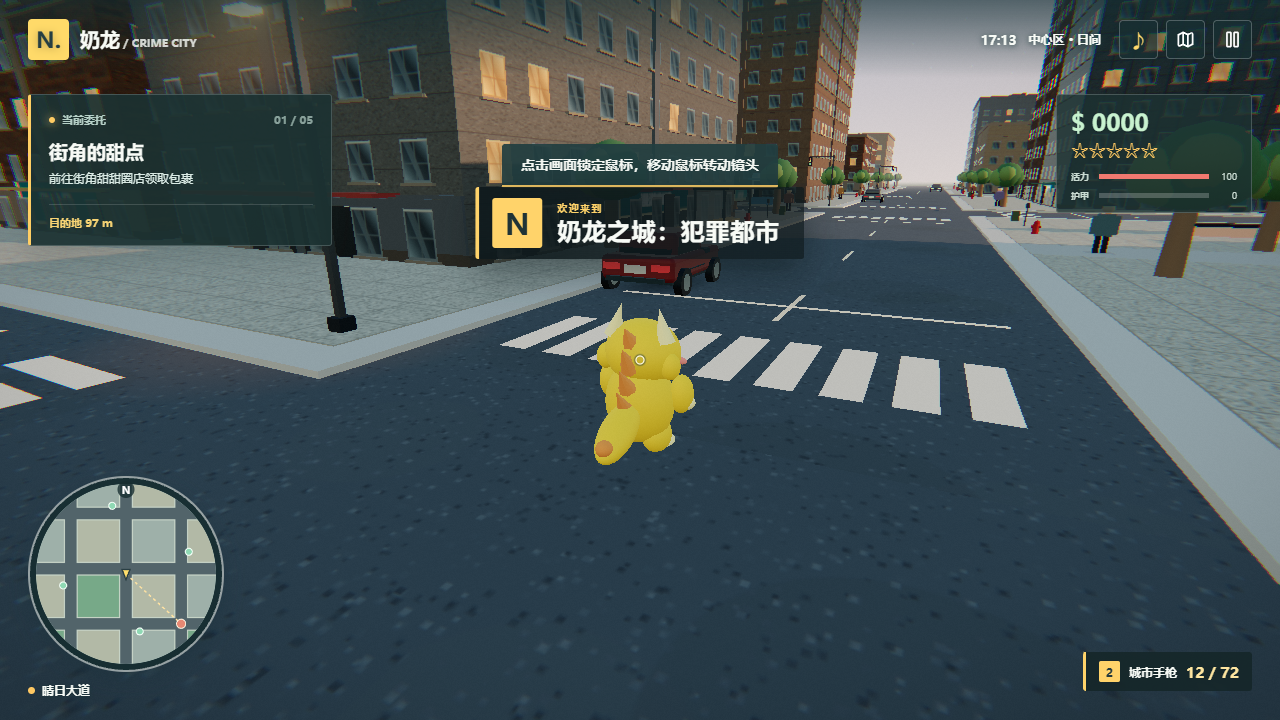
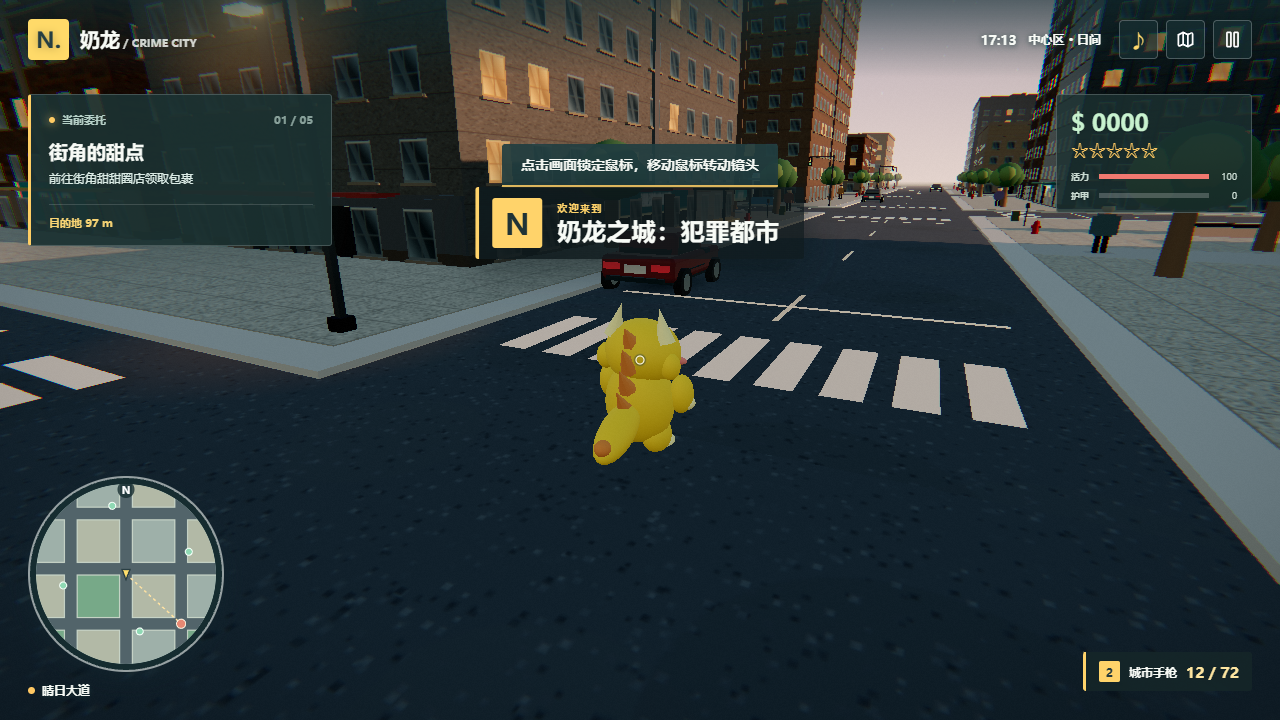
feat: deepen cinematic tone and golden hour
- Lower exposure, tighter contrast, deeper blacks, stronger vignette
- Reduce ambient/environment fill so sun shadows read on facades
- Denser aerial perspective; haze band and saturated sunset horizon
- Wider golden-hour window, warmer sunset fog and cloud tint

diff --git a/src/daynight.js b/src/daynight.js
@@ -26,30 +26,30 @@ export function createDayNight({ scene, sun, hemisphere, fog, atmosphere, lamps,
     const angle = (hours - 6) / 24 * Math.PI * 2;
     const height = Math.sin(angle);
     const day = THREE.MathUtils.clamp((height + 0.26) / 0.56, 0, 1);
-    const sunset = Math.max(0, 1 - Math.abs(height) * 2.8) * (1 - Math.max(0, -height) * 1.2);
+    const sunset = Math.max(0, 1 - Math.abs(height) * 2.2) * (1 - Math.max(0, -height) * 1.2);
     const night = 1 - day;
 
     sun.position.set(playerPosition.x + Math.cos(angle) * 140,
       Math.max(18 + night * 70, height * 150), playerPosition.z + Math.sin(angle) * 100);
     sun.target.position.set(playerPosition.x, 0, playerPosition.z);
     sun.target.updateMatrixWorld();
-    sun.intensity = 1.6 + day * 1.8;
+    sun.intensity = 1.35 + day * 2.75;
     sunColor.copy(COLORS.nightSun).lerp(COLORS.daySun, day);
     if (sunset > 0.05) sunColor.lerp(COLORS.sunsetSun, Math.min(1, sunset * 0.9));
     sun.color.copy(sunColor);
 
-    hemisphere.intensity = 3.4 - day * 2.38;
+    hemisphere.intensity = 2.8 - day * 2.15;
     hemisphere.color.copy(COLORS.nightHorizon).lerp(COLORS.dayHorizon, day);
     hemisphere.groundColor.setRGB(0.05 + day * 0.24, 0.055 + day * 0.23,
       0.06 + day * 0.19);
 
     mixColor.copy(COLORS.nightFog).lerp(COLORS.dayFog, day);
-    if (sunset > 0.04) mixColor.lerp(COLORS.sunsetFog, Math.min(1, sunset * 0.55));
+    if (sunset > 0.04) mixColor.lerp(COLORS.sunsetFog, Math.min(1, sunset * 0.8));
     fog.color.copy(mixColor);
     scene.background.copy(mixColor);
-    fog.near = 120 - night * 40;
-    fog.far = 620 - night * 230;
-    scene.environmentIntensity = 0.2 + day * 0.36;
+    fog.near = 130 - night * 30;
+    fog.far = 560 - night * 200;
+    scene.environmentIntensity = 0.14 + day * 0.26;
 
     const lampGlow = night * 3.0;
     for (const lamp of lamps) lamp.material.emissiveIntensity = 0.08 + lampGlow;

diff --git a/src/atmosphere.js b/src/atmosphere.js
@@ -26,14 +26,14 @@ export function createAtmosphere(scene) {
         void main() {
           vec3 direction = normalize(vDirection);
           float altitude = pow(clamp((direction.y + 0.08) / 0.7, 0.0, 1.0), 0.75);
-          vec3 horizon = mix(vec3(0.028, 0.045, 0.075), vec3(0.50, 0.62, 0.70), uDay);
-          horizon = mix(horizon, vec3(0.95, 0.44, 0.22), uSunset * 0.7);
-          vec3 zenith = mix(vec3(0.008, 0.014, 0.035), vec3(0.07, 0.24, 0.48), uDay);
+          vec3 horizon = mix(vec3(0.028, 0.045, 0.075), vec3(0.44, 0.56, 0.64), uDay);
+          horizon = mix(horizon, vec3(0.95, 0.44, 0.22), uSunset * 0.85);
+          vec3 zenith = mix(vec3(0.008, 0.014, 0.035), vec3(0.045, 0.19, 0.43), uDay);
           zenith = mix(zenith, vec3(0.36, 0.19, 0.22), uSunset * 0.35);
           vec3 color = mix(horizon, zenith, altitude);
           float facingSun = max(dot(direction, normalize(uSunDir)), 0.0);
           float haze = exp(-max(direction.y, 0.0) * 7.0);
-          color += vec3(0.10, 0.09, 0.075) * haze * uDay;
+          color += vec3(0.13, 0.115, 0.095) * haze * uDay;
           color += vec3(0.42, 0.28, 0.16) * pow(facingSun, 5.0) * uDay * 0.7;
           color += vec3(1.0, 0.76, 0.48) * pow(facingSun, 380.0) * uDay * 1.4;
           gl_FragColor = vec4(color, 1.0);
@@ -101,7 +101,7 @@ export function createAtmosphere(scene) {
       const brightness = 0.13 + day * 0.87;
       cloudMaterial.color.setRGB(0.96 * brightness, 0.945 * brightness,
         0.925 * brightness);
-      if (sunset > 0.05) cloudMaterial.color.lerp(cloudTint, sunset * 0.4);
+      if (sunset > 0.05) cloudMaterial.color.lerp(cloudTint, sunset * 0.55);
       cloudMaterial.opacity = 0.12 + day * 0.4;
       clouds.forEach((cloud, index) => {
         cloud.position.x += Math.sin(index + hours * 0.4) * 0.004;

diff --git a/src/postfx.js b/src/postfx.js
@@ -9,10 +9,10 @@ const GradeShader = {
   uniforms: {
     tDiffuse: { value: null },
     time: { value: 0 },
-    vignette: { value: 0.55 },
+    vignette: { value: 0.6 },
     grain: { value: 0.012 },
-    saturation: { value: 1.12 },
-    contrast: { value: 1.06 },
+    saturation: { value: 1.06 },
+    contrast: { value: 1.12 },
     shadowTint: { value: new THREE.Color('#7d94ad') },
     highlightTint: { value: new THREE.Color('#ffd8ae') },
     shadowAmount: { value: 0.07 },
@@ -60,7 +60,7 @@ const GradeShader = {
       float highlightMask = smoothstep(0.55, 1.0, luma);
       color = mix(color, color * shadowTint * 1.4, shadowMask * shadowAmount);
       color = mix(color, color * highlightTint, highlightMask * highlightAmount);
-      color = color * 0.965 + 0.016;
+      color = color * 0.988 + 0.004;
 
       float dist = distance(vUv, vec2(0.5));
       float edge = smoothstep(0.36, 0.88, dist);
@@ -75,7 +75,7 @@ const GradeShader = {
 export function createPostFX(renderer, scene, camera) {
   const composer = new EffectComposer(renderer);
   composer.addPass(new RenderPass(scene, camera));
-  const bloom = new UnrealBloomPass(new THREE.Vector2(1, 1), 0.24, 0.5, 0.9);
+  const bloom = new UnrealBloomPass(new THREE.Vector2(1, 1), 0.3, 0.55, 0.86);
   composer.addPass(bloom);
   composer.addPass(new OutputPass());
   const grade = new ShaderPass(GradeShader);

diff --git a/src/main.js b/src/main.js
@@ -18,9 +18,9 @@ const $ = (id) => document.getElementById(id);
 const canvas = $('scene');
 const scene = new THREE.Scene();
 scene.background = new THREE.Color('#acdce4');
-scene.fog = new THREE.Fog('#b3cdd3', 155, 660);
+scene.fog = new THREE.Fog('#b3cdd3', 130, 560);
 
-const camera = new THREE.PerspectiveCamera(62, 1, 0.12, 950);
+const camera = new THREE.PerspectiveCamera(58, 1, 0.12, 950);
 let renderer;
 try {
   renderer = new THREE.WebGLRenderer({ canvas, antialias: true,
@@ -31,7 +31,7 @@ try {
 }
 renderer.outputColorSpace = THREE.SRGBColorSpace;
 renderer.toneMapping = THREE.ACESFilmicToneMapping;
-renderer.toneMappingExposure = 1.32;
+renderer.toneMappingExposure = 1.16;
 renderer.shadowMap.enabled = true;
 renderer.shadowMap.type = THREE.PCFSoftShadowMap;
 const postfx = createPostFX(renderer, scene, camera);

diff --git a/README.md b/README.md
@@ -8,7 +8,7 @@
 
 ## 下载运行
 
-[下载 Windows 便携版 EXE](https://github.com/bietou123/nailong-city/releases/download/v0.4.0/Nailong-City-0.4.0-x64.exe)。Windows 10/11 x64 双击即可运行，无需安装 Node.js 或联网。若系统提示未知发布者，需要自行确认文件来源。游戏进度自动保存在本机；首次启动需要可用的图形加速环境。
+[下载 Windows 便携版 EXE](https://github.com/bietou123/nailong-city/releases/download/v0.4.1/Nailong-City-0.4.1-x64.exe)。Windows 10/11 x64 双击即可运行，无需安装 Node.js 或联网。若系统提示未知发布者，需要自行确认文件来源。游戏进度自动保存在本机；首次启动需要可用的图形加速环境。
 
 也可以从源码构建：`npm run dist` 生成的便携版位于 `release/`。
 
